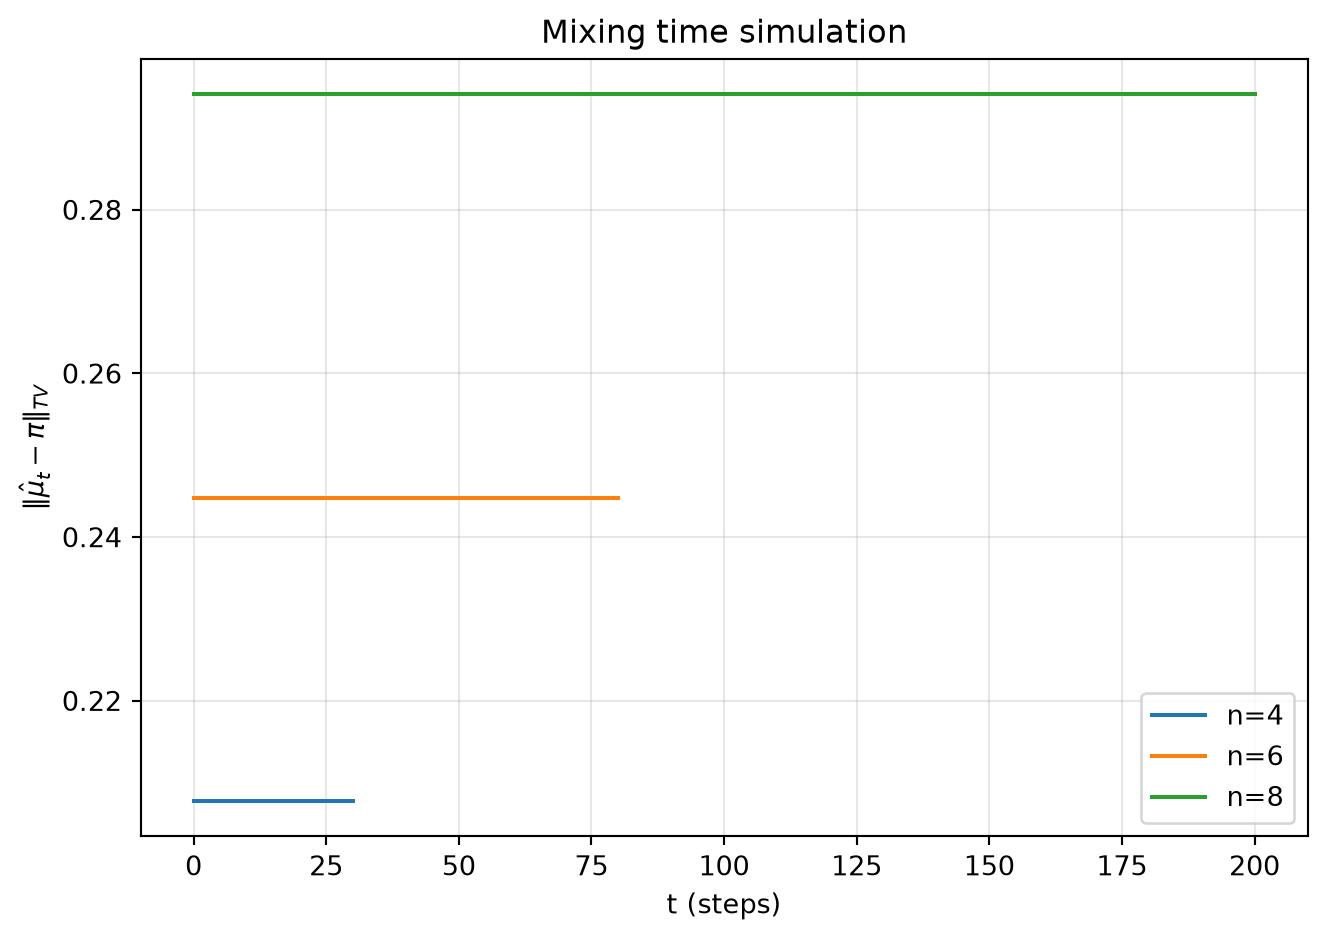
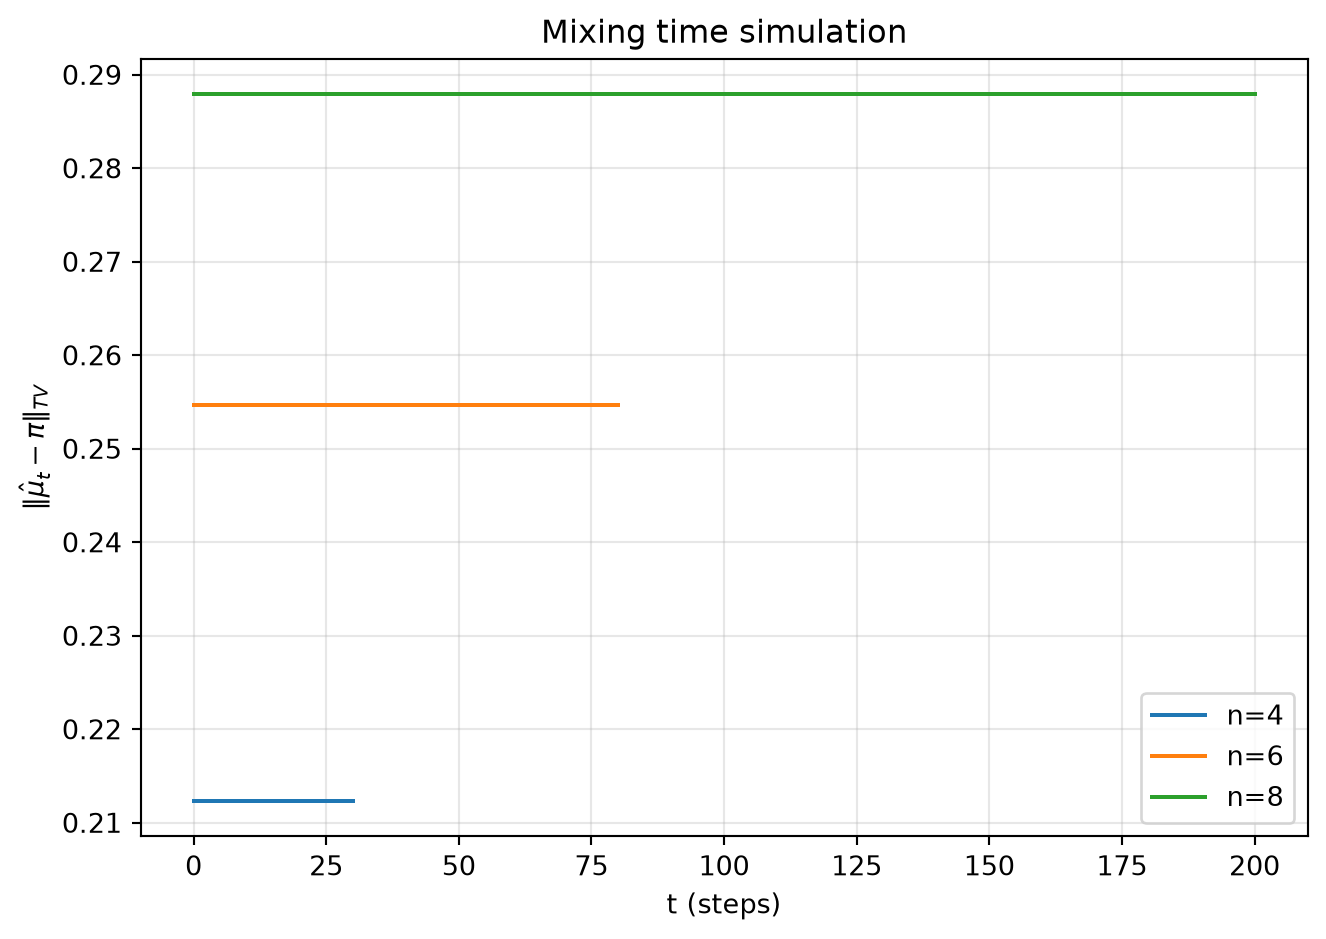
Update thesis notes website

diff --git a/2026-11-03-trs.html b/2026-11-03-trs.html
@@ -262,7 +262,7 @@ window.Quarto = {
 <header id="title-block-header" class="quarto-title-block default"><nav class="quarto-page-breadcrumbs quarto-title-breadcrumbs d-none d-lg-block" aria-label="breadcrumb"><ol class="breadcrumb"><li class="breadcrumb-item"><a href="./2026-11-03-trs.html">Thesis notes</a></li><li class="breadcrumb-item"><a href="./2026-11-03-trs.html">TRS spectrum (2026-11-03)</a></li></ol></nav>
 <div class="quarto-title">
 <h1 class="title">Spectral Degeneracies of a Topmost-to-Random Shuffle on Balanced Binary Words</h1>
-<p class="subtitle lead">A note based on discussions with Professor Steven Evans</p>
+<p class="subtitle lead">A note based on discussions with Professor Steven N. Evans</p>
 </div>
 
 

diff --git a/index.html b/index.html
@@ -173,6 +173,7 @@ ul.task-list li input[type="checkbox"] {
 
 
 <p>Welcome to my thesis research notes.</p>
+<p><a href="https://github.com/mattbix" class="btn btn-primary">GitHub repositories</a></p>
 <section id="recent-updates" class="level2">
 <h2 class="anchored" data-anchor-id="recent-updates">Recent updates</h2>
 <p><a href="2026-11-03-trs.html">Spectral Degeneracies of a Topmost-to-Random Shuffle on Balanced Binary Words</a></p>
